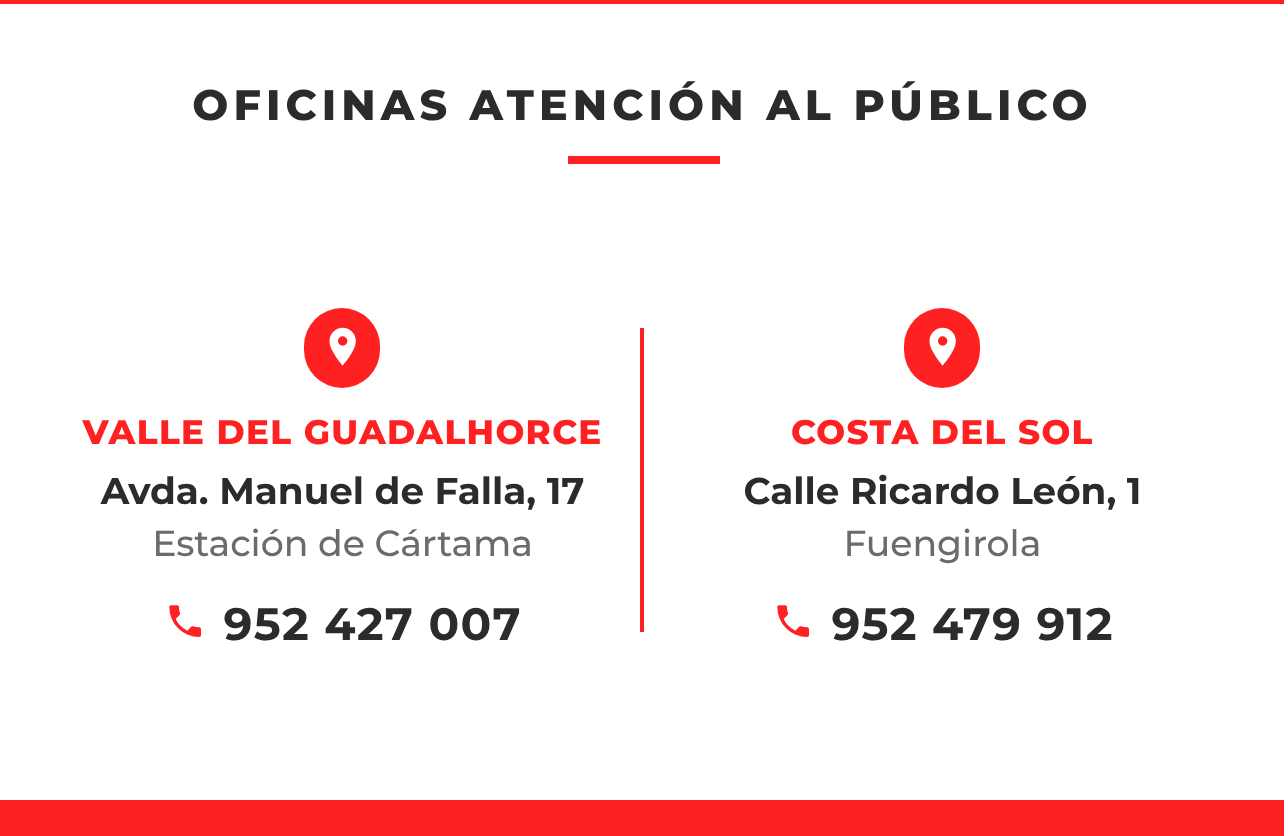
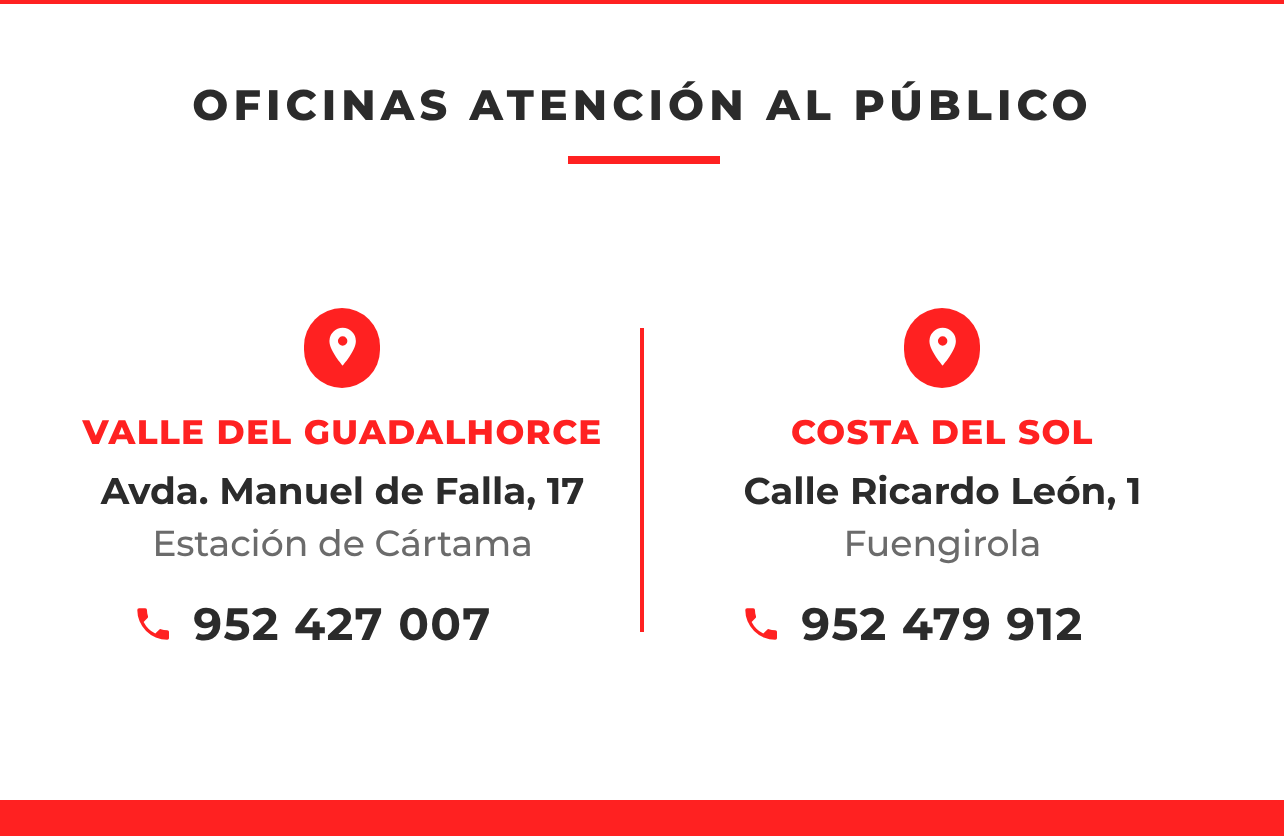
Centrar teléfonos del reverso; Garo algo más grande y Occident algo más pequeño
Claude-Session: https://claude.ai/code/session_015WUNb4yre91nmkt9usvexw

Changed region(s): [[0.0932, 0.7153, 0.4037, 0.7775], [0.559, 0.7153, 0.8696, 0.7775]]

diff --git a/tarjeta-visita/tarjeta.html b/tarjeta-visita/tarjeta.html
@@ -35,8 +35,8 @@
     gap: 3.5mm;
   }
   /* mismo tamaño visual que en el reverso (21 mm alto / 34 mm ancho) */
-  .front .logos .garo { display: block; height: 19.5mm; }
-  .front .logos .occ { display: block; width: 31.5mm; transform: translateX(-1.8mm); }
+  .front .logos .garo { display: block; height: 21.5mm; }
+  .front .logos .occ { display: block; width: 28.5mm; transform: translateX(-1.65mm); }
   /* centrado óptico: el peso visual de Occident cae a la derecha (texto), se compensa */
   .front .divider {
     position: absolute; left: 40.5mm; top: 11mm; bottom: 12mm;
@@ -105,11 +105,15 @@
   .addr .street {
     font-weight: 500; font-size: 6.8pt; line-height: 1.3; color: var(--muted); margin-top: 0.5mm;
   }
+  /* el número queda centrado con los textos; el icono cuelga a su izquierda */
   .addr .tel {
-    margin-top: 1.8mm; display: flex; align-items: center; gap: 1.2mm;
+    margin-top: 1.8mm; position: relative; display: inline-block;
     font-weight: 700; font-size: 8.5pt; letter-spacing: 0.03em; white-space: nowrap; color: var(--ink);
   }
-  .addr .tel svg { width: 2.8mm; height: 2.8mm; fill: var(--garo); flex: none; }
+  .addr .tel svg {
+    position: absolute; right: calc(100% + 1.2mm); top: 50%; transform: translateY(-50%);
+    width: 2.8mm; height: 2.8mm; fill: var(--garo);
+  }
   .back .band {
     position: absolute; left: 0; right: 0; bottom: 0; height: 2.2mm; background: var(--garo);
   }
